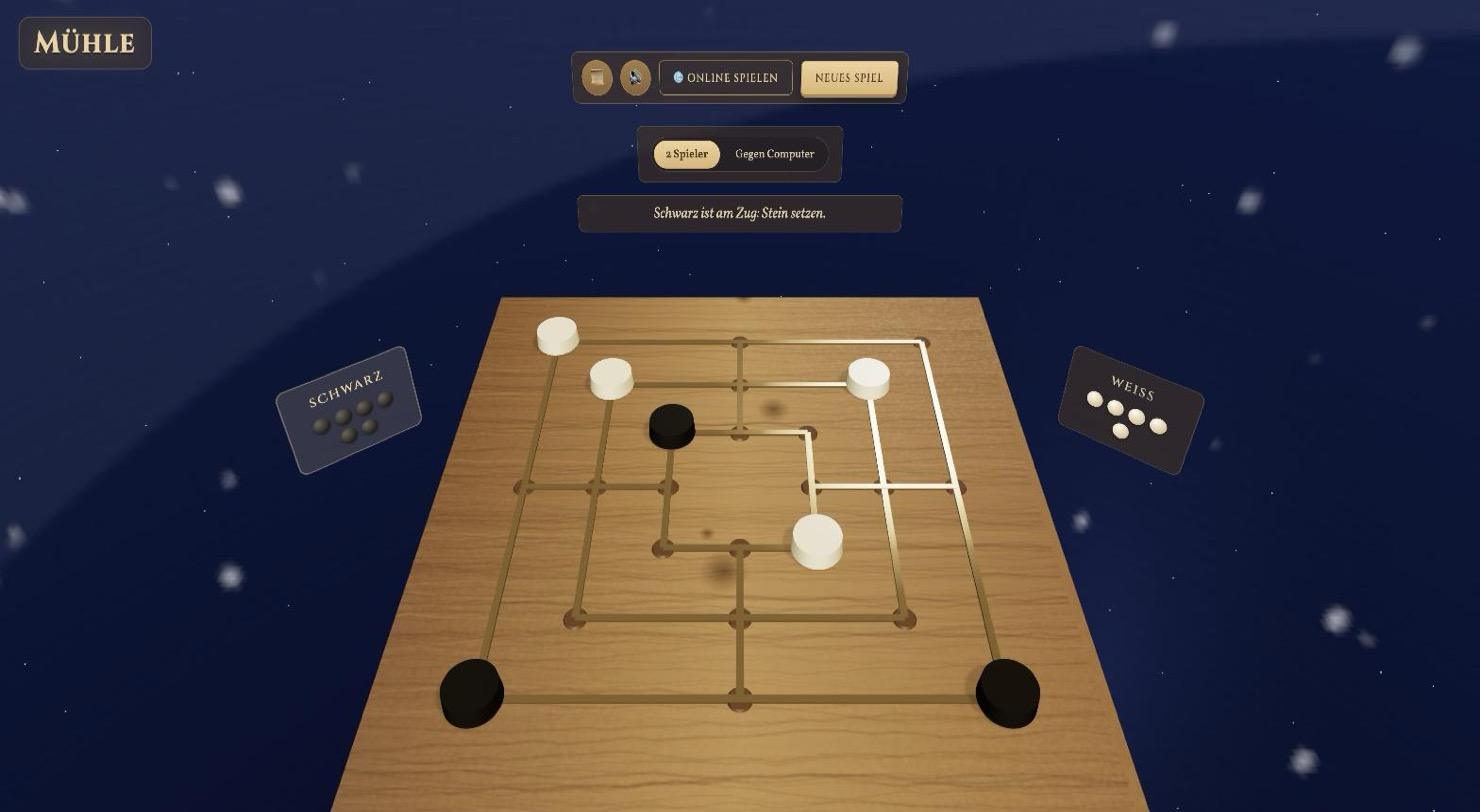
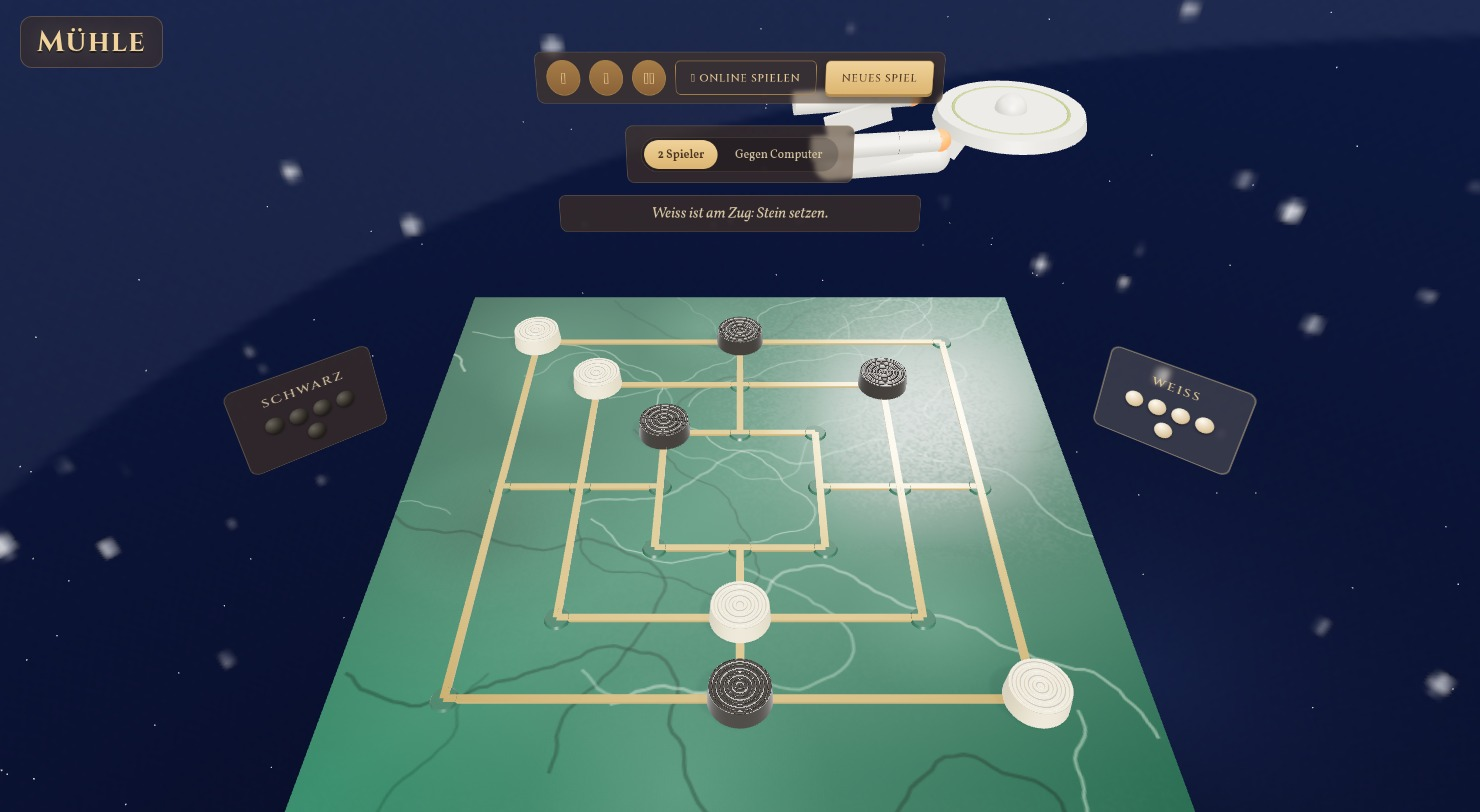
bodensee bregenz tour

diff --git a/html/index.html b/html/index.html
@@ -571,6 +571,36 @@
             min-height: 400px;
         }
 
+        .bike-tour-row {
+            display: flex;
+            justify-content: center;
+            max-width: 960px;
+            margin: 0 auto 40px;
+        }
+
+        .bike-tour-row .webcam-section-small {
+            flex: none;
+            width: 100%;
+        }
+
+        .bike-tour-container {
+            width: 100%;
+            overflow: hidden;
+            border-radius: 8px;
+            background: #000;
+            display: flex;
+            justify-content: center;
+        }
+
+        .bike-tour-container iframe {
+            display: block;
+            width: 960px;
+            height: 480px;
+            max-width: 100%;
+            aspect-ratio: 2 / 1;
+            border: none;
+        }
+
         .news-frame {
             order: 2;
         }
@@ -1073,6 +1103,18 @@
                     </div>
                     <div class="card-title">Mühle</div>
                     <div class="card-domain">muehle.bekerh.ddns.net</div>
+                    <div class="status"><span class="status-dot"></span>Online</div>
+                </a>
+
+                <!-- Towers of Hanoi -->
+                <a href="https://helmutqualtinger.github.io/hanoi/" class="card" style="--card-index: 9; clip-path: url(#cloud3);"
+                    target="_blank">
+                    <div class="icon">
+                        <img src="https://helmutqualtinger.github.io/hanoi/screenshot.jpg"
+                            alt="Towers of Hanoi" style="width: 100%; height: 100%; object-fit: cover;">
+                    </div>
+                    <div class="card-title">Towers of Hanoi</div>
+                    <div class="card-domain">helmutqualtinger.github.io</div>
                     <div class="status"><span class="status-dot"></span>Online</div>
                 </a>
             </div>
@@ -1650,6 +1692,17 @@
                 <div class="webcam-container-small">
                     <iframe src="https://saentis.roundshot.com/" title="Säntis 360° Panorama Webcam" frameborder="0"
                         allowfullscreen></iframe>
+                </div>
+            </div>
+
+        </div>
+
+        <div class="bike-tour-row">
+            <div class="webcam-section-small">
+                <div class="weather-title">🚴 Radtour am Bodensee bei Bregenz</div>
+                <div class="bike-tour-container">
+                    <iframe width="960px" height="480px" src="https://player.kinomap.com/zvrc84"
+                        title="Radtour vom Bodensee nach Dornbirn" frameborder="0" allowfullscreen="true"></iframe>
                 </div>
             </div>
         </div>
